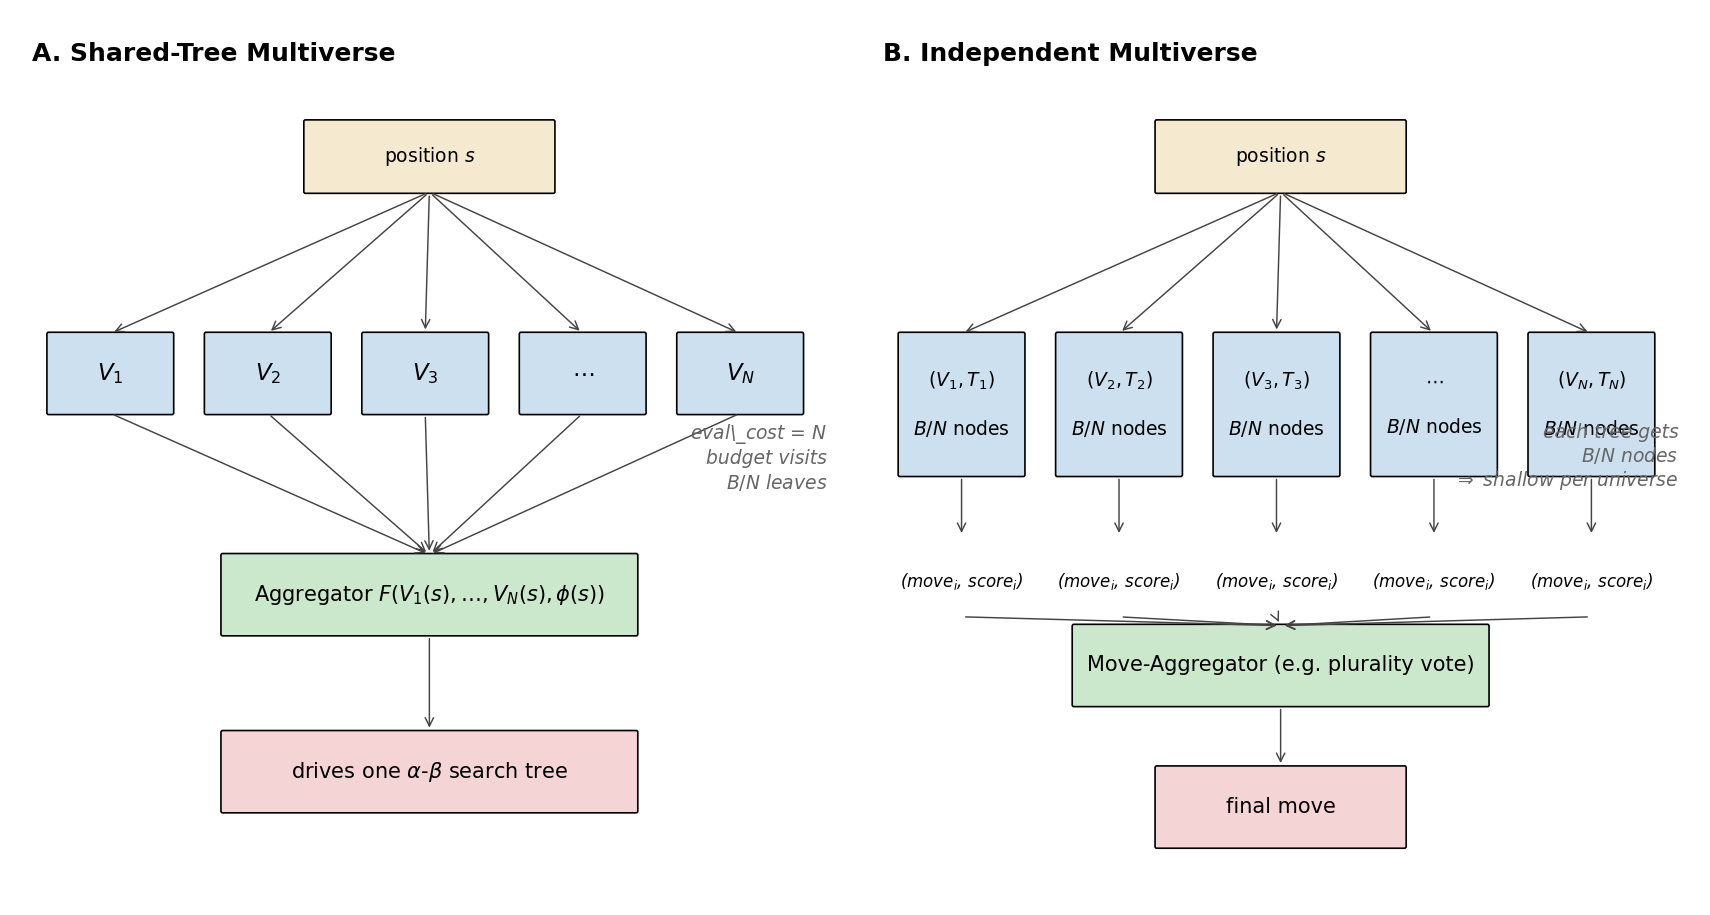
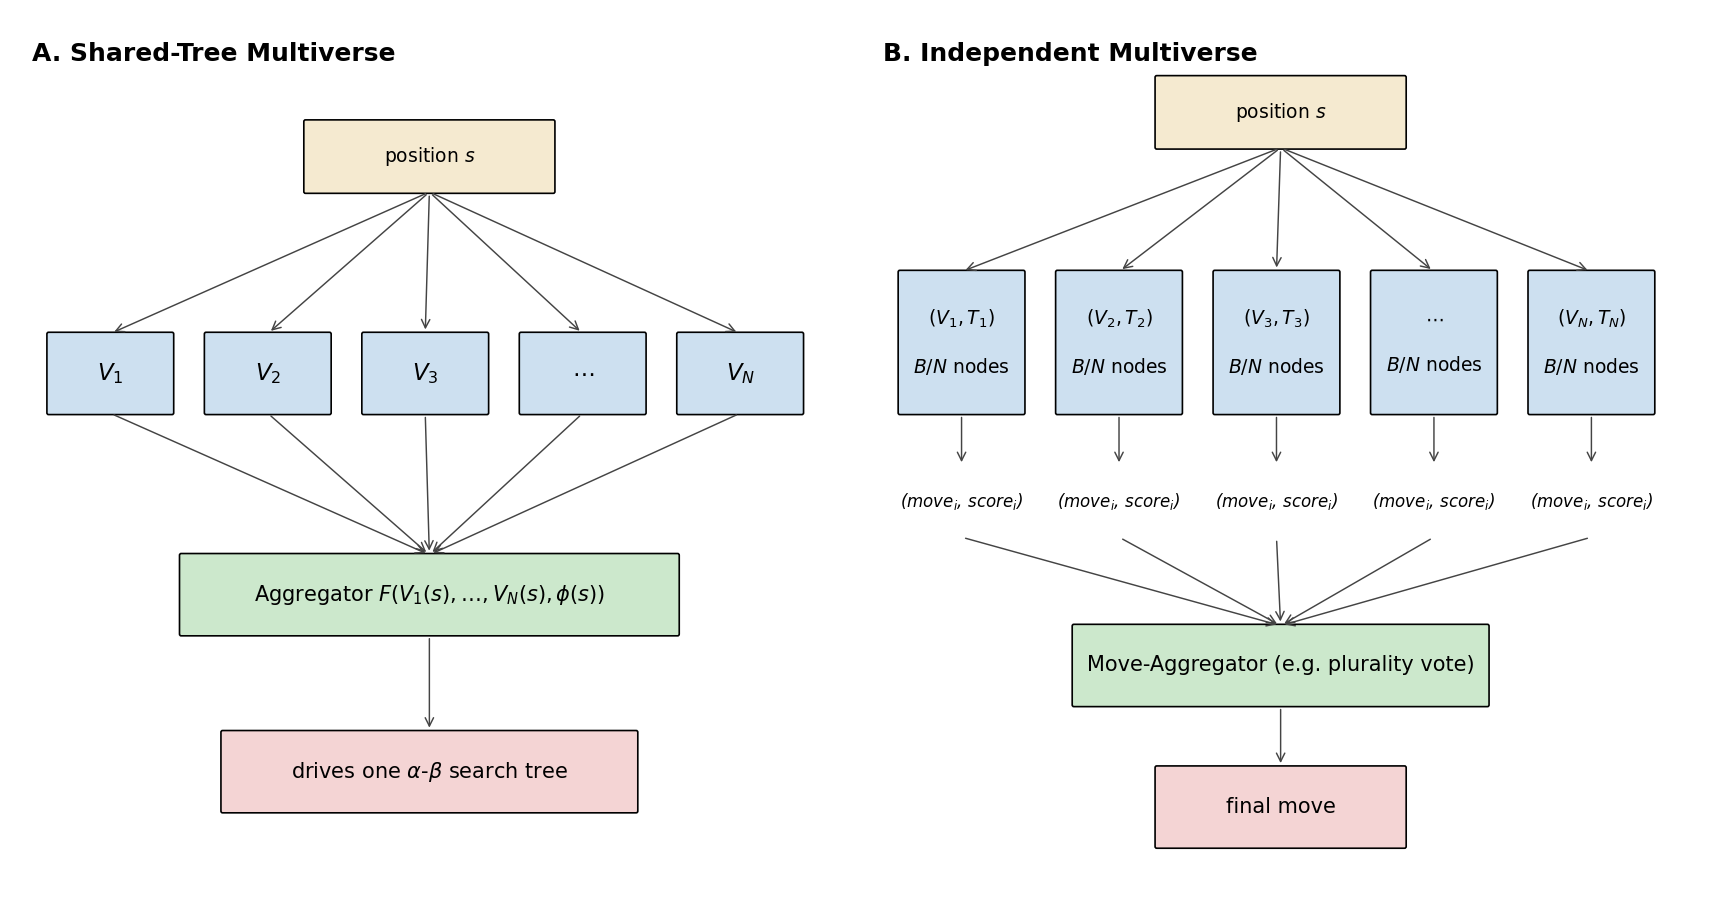
Fix Figure 1: remove margin notes that overlapped V_N box, clean Panel B fan-in arrows

diff --git a/experiments/make_figures.py b/experiments/make_figures.py
@@ -83,36 +83,45 @@ def make_fig1_architecture() -> None:
 
     # A: position s -> N universes -> aggregator F -> single score -> alpha-beta tree
     _box(ax_a, 35, 80, 30, 8, "position $s$", fc=POS_FC)
-    universe_positions = []
+    universe_centers_a = []
     for i, label in enumerate(["$V_1$", "$V_2$", "$V_3$", "$\\cdots$", "$V_N$"]):
         x = 4 + i * 19
+        cx = x + 7.5
         _box(ax_a, x, 55, 15, 9, label, fc=UNI_FC, fs=11)
-        universe_positions.append((x + 7.5, 55, x + 7.5, 64))
-        _arrow(ax_a, 50, 80, x + 7.5, 64)
-    _box(ax_a, 25, 30, 50, 9, "Aggregator $F(V_1(s),\\ldots,V_N(s),\\phi(s))$", fc=AGG_FC, fs=10)
-    for x, y, _, _ in universe_positions:
-        _arrow(ax_a, x, y, 50, 39)
-    _box(ax_a, 25, 10, 50, 9, "drives one $\\alpha$-$\\beta$ search tree", fc=OUT_FC, fs=10)
+        universe_centers_a.append(cx)
+        _arrow(ax_a, 50, 80, cx, 64)
+    _box(ax_a, 20, 30, 60, 9, "Aggregator $F(V_1(s),\\ldots,V_N(s),\\phi(s))$",
+         fc=AGG_FC, fs=10)
+    for cx in universe_centers_a:
+        _arrow(ax_a, cx, 55, 50, 39)
+    _box(ax_a, 25, 10, 50, 9, "drives one $\\alpha$-$\\beta$ search tree",
+         fc=OUT_FC, fs=10)
     _arrow(ax_a, 50, 30, 50, 19)
-    ax_a.text(98, 50, "eval\\_cost = $N$\nbudget visits\n$B/N$ leaves",
-              ha="right", va="center", fontsize=9, color="#666", style="italic")
 
     # B: position s -> N parallel (universe + tree) -> N results -> move aggregator -> final move
-    _box(ax_b, 35, 80, 30, 8, "position $s$", fc=POS_FC)
-    for i, label in enumerate(["$(V_1,T_1)$", "$(V_2,T_2)$", "$(V_3,T_3)$", "$\\cdots$", "$(V_N,T_N)$"]):
+    _box(ax_b, 35, 85, 30, 8, "position $s$", fc=POS_FC)
+    result_anchors = []  # (x, y_bottom) of each (move_i, score_i) label
+    for i, label in enumerate(["$(V_1,T_1)$", "$(V_2,T_2)$", "$(V_3,T_3)$",
+                                "$\\cdots$", "$(V_N,T_N)$"]):
         x = 4 + i * 19
-        _box(ax_b, x, 48, 15, 16, label + "\n\n$B/N$ nodes", fc=UNI_FC, fs=9)
-        _arrow(ax_b, 50, 80, x + 7.5, 64)
-        _arrow(ax_b, x + 7.5, 48, x + 7.5, 41)
-        ax_b.text(x + 7.5, 36, "(move$_i$, score$_i$)", ha="center", va="center", fontsize=8, style="italic")
-    _box(ax_b, 25, 22, 50, 9, "Move-Aggregator (e.g. plurality vote)", fc=AGG_FC, fs=10)
-    for i in range(5):
-        x = 4 + i * 19 + 7.5
-        _arrow(ax_b, x, 32, 50, 31)
+        cx = x + 7.5
+        # Universe+tree box
+        _box(ax_b, x, 55, 15, 16, label + "\n\n$B/N$ nodes", fc=UNI_FC, fs=9)
+        # Position -> box
+        _arrow(ax_b, 50, 85, cx, 71)
+        # Box -> result label (short vertical)
+        _arrow(ax_b, cx, 55, cx, 49)
+        ax_b.text(cx, 45, "(move$_i$, score$_i$)",
+                  ha="center", va="center", fontsize=8, style="italic")
+        result_anchors.append((cx, 41))
+    # Move-Aggregator (with a clear gap above it for the converging arrows)
+    _box(ax_b, 25, 22, 50, 9, "Move-Aggregator (e.g. plurality vote)",
+         fc=AGG_FC, fs=10)
+    for cx, by in result_anchors:
+        _arrow(ax_b, cx, by, 50, 31)
+    # Aggregator -> final move
     _box(ax_b, 35, 6, 30, 9, "final move", fc=OUT_FC, fs=10)
     _arrow(ax_b, 50, 22, 50, 15)
-    ax_b.text(98, 50, "each tree gets\n$B/N$ nodes\n$\\Rightarrow$ shallow per universe",
-              ha="right", va="center", fontsize=9, color="#666", style="italic")
 
     plt.tight_layout()
     fig.savefig(FIG_ARCH)
